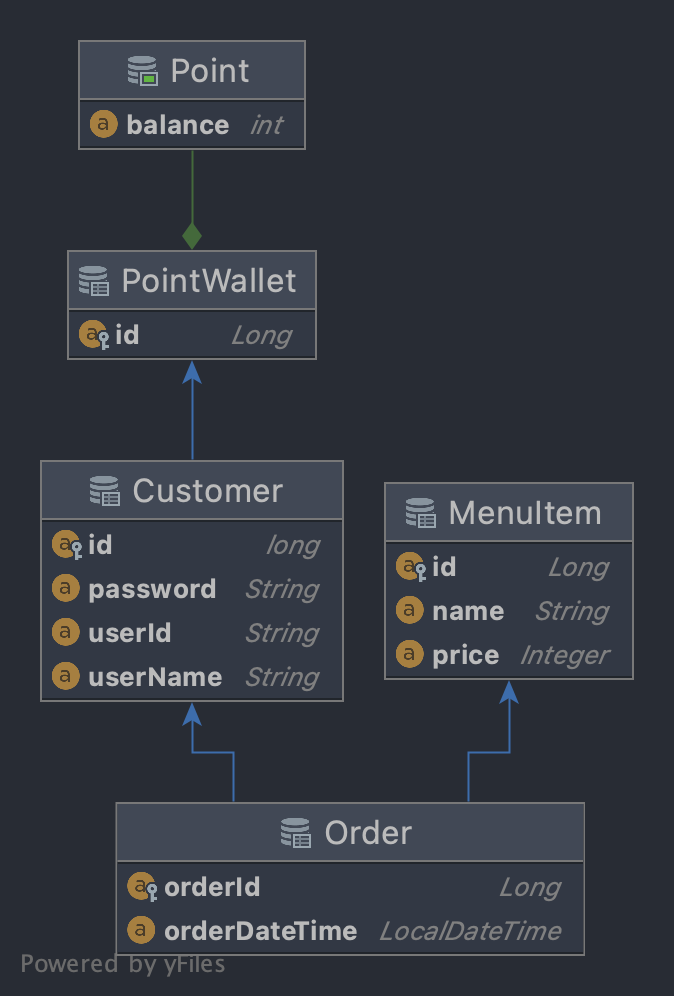
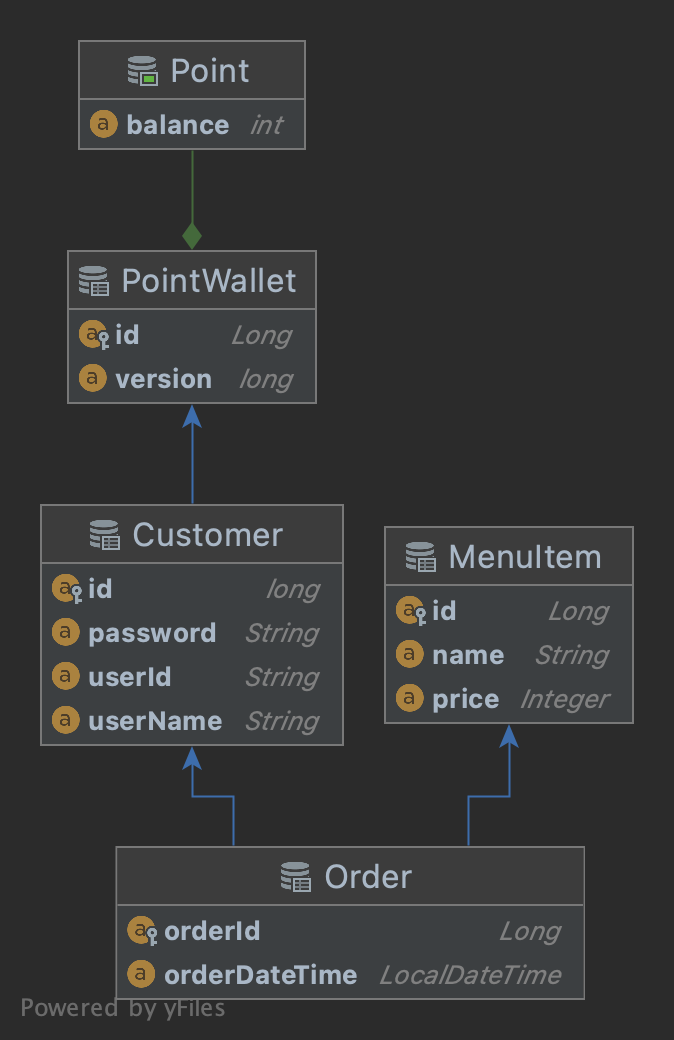
update : @Version 추가. 낙관적 Lock 사용  README.md 업데이트

diff --git a/src/main/java/com/kakao/cafe/point/service/PointService.java b/src/main/java/com/kakao/cafe/point/service/PointService.java
@@ -4,7 +4,6 @@ import com.kakao.cafe.customer.domain.Customer;
 import com.kakao.cafe.customer.service.CustomerService;
 import lombok.RequiredArgsConstructor;
 import org.springframework.stereotype.Service;
-import org.springframework.transaction.annotation.Isolation;
 import org.springframework.transaction.annotation.Transactional;
 
 
@@ -15,7 +14,7 @@ public class PointService {
 
     private final CustomerService customerService;
 
-    @Transactional(isolation = Isolation.REPEATABLE_READ)
+    @Transactional
     public void deduct(String userId, Integer points) throws Exception {
         Customer customer = findCustomerByUserId(userId);
         customer.deductPoints(points);
@@ -27,7 +26,7 @@ public class PointService {
         return customer.getMyPointBalance();
     }
 
-    @Transactional(isolation = Isolation.REPEATABLE_READ)
+    @Transactional
     public void charge(String userId, Integer points) throws Exception {
         Customer customer = findCustomerByUserId(userId);
         customer.chargePoints(points);

diff --git a/src/main/java/com/kakao/cafe/order/service/OrderService.java b/src/main/java/com/kakao/cafe/order/service/OrderService.java
@@ -29,7 +29,7 @@ public class OrderService {
 
     private final ApplicationEventPublisher applicationEventPublisher;
 
-    @Transactional(isolation = Isolation.REPEATABLE_READ)
+    @Transactional
     public Order makeOrderProcess(String userId, Long menuId) throws Exception {
         Customer customer = customerService.findByUserId(userId);
         MenuItem orderedMenu = menuService.findByMenuId(menuId);
@@ -41,7 +41,6 @@ public class OrderService {
         // 포인트 차감 처리
         pointService.deduct(userId, order.cost());
         Order completedOrder = orderRepository.save(order);
-
         log.debug("Make Order Process COMPLETE : {}", completedOrder);
 
         // 수집 플랫폼 서버 전송 비동기 이벤트 처리

diff --git a/src/test/java/com/kakao/cafe/controller/PointControllerTest.java b/src/test/java/com/kakao/cafe/controller/PointControllerTest.java
@@ -59,7 +59,7 @@ public class PointControllerTest {
 
     @Test
     @Order(3)
-    @DisplayName("회원포인트조회API 테스트 오류")
+    @DisplayName("회원포인트조회API 테스트 오류 미존재아이디")
     public void 회원포인트조회_API_테스트_미존재아이디() throws Exception {
         mvc.perform(
                 get("/point")
@@ -72,7 +72,7 @@ public class PointControllerTest {
 
     @Test
     @Order(4)
-    @DisplayName("회원포인트충전 API 테스트 오류")
+    @DisplayName("회원포인트충전 API 테스트 오류 미존재아이디")
     public void 회원포인트충전_API_테스트_미존재아이디() throws Exception {
 
         JSONObject jsonObject = new JSONObject();

diff --git a/src/main/java/com/kakao/cafe/menu/repository/MenuCustomQueryRepository.java b/src/main/java/com/kakao/cafe/menu/repository/MenuCustomQueryRepository.java
@@ -7,6 +7,7 @@ import com.querydsl.core.types.dsl.NumberPath;
 import com.querydsl.jpa.impl.JPAQueryFactory;
 import lombok.RequiredArgsConstructor;
 import org.springframework.stereotype.Repository;
+import org.springframework.transaction.annotation.Isolation;
 import org.springframework.transaction.annotation.Transactional;
 
 import java.time.LocalDate;
@@ -27,7 +28,7 @@ public class MenuCustomQueryRepository {
      * 7일간 인기 상품 추출 Query
      * @return List<PopularMenuItemDto>
      */
-    @Transactional
+    @Transactional(isolation = Isolation.READ_COMMITTED)
     public List<PopularMenuItemDto> getPopularMenus() {
 
         NumberPath<Long> count = Expressions.numberPath(Long.class, "saleCount");

diff --git a/src/test/java/com/kakao/cafe/controller/OrderControllerTest.java b/src/test/java/com/kakao/cafe/controller/OrderControllerTest.java
@@ -34,7 +34,7 @@ public class OrderControllerTest {
 
     @Test
     @Order(1)
-    @DisplayName("주문 성공 후, 수집서버 호출 검증")
+    @DisplayName("주문 API 테스트 성공 후, 수집서버 호출 검증")
     public void 주문_API_테스트_수집서버_전송_테스트() throws Exception {
 
         JSONObject jsonObject = new JSONObject();
@@ -104,7 +104,7 @@ public class OrderControllerTest {
     }
 
     @Test
-    @DisplayName("주문 API 테스트 검증")
+    @DisplayName("주문 API 테스트 필드 검증")
     public void 주문_API_테스트_필드_검증() throws Exception {
 
         JSONObject jsonObject = new JSONObject();

diff --git a/src/main/java/com/kakao/cafe/point/domain/PointWallet.java b/src/main/java/com/kakao/cafe/point/domain/PointWallet.java
@@ -1,8 +1,6 @@
 package com.kakao.cafe.point.domain;
 
-import lombok.AccessLevel;
 import lombok.Getter;
-import lombok.NoArgsConstructor;
 import lombok.ToString;
 import lombok.extern.slf4j.Slf4j;
 
@@ -22,6 +20,10 @@ public class PointWallet {
 
     @Embedded
     private Point point;
+
+    @Version
+    @Column(name = "version", nullable = false)
+    private long version = 0L;
 
     public PointWallet() {
         this.point = new Point();

diff --git a/README.md b/README.md
@@ -72,7 +72,7 @@ $ java -jar build/libs/kakaopay-cafe-hw-0.0.1-SNAPSHOT.jar
     - id (PK), userId(unique), userName, password, point_wallet_id(FK)
 - PointWallet (포인트지갑)
     - 구매고객과 1:1 Mapping
-    - id (PK), balance(잔액)
+    - id (PK), balance(잔액), version
 - MenuItem (메뉴 상품)
     - Cafe에서 판매중인 상품
     - id (PK), name, price
@@ -82,7 +82,7 @@ $ java -jar build/libs/kakaopay-cafe-hw-0.0.1-SNAPSHOT.jar
 
 ## 구현 내용과 해결 전략
 
-- 동시성 이슈와 데이터 일관성의 처리를 위해 고객 포인트의 충전과 차감 거래시, Transaction 격리 수준을 고려하여 구현하였다.
+- 동시성 이슈와 데이터 일관성의 처리를 위해 고객 포인트의 충전과 차감 거래시, JPA의 @Version을 이용하여 낙관적인 Lock 방식으로 해결하였다.
 - 주문 내역에 대한 외부 수집서버 실시간 전송에 대해서 이벤트 기반 비동기 처리로 구현하였다.
 
 ### 1. 커피 메뉴 목록 조회 API
@@ -179,13 +179,35 @@ POST /point/charge HTTP/1.1
 }
 ```
 
-- 동시성 이슈와 데이터의 일관성을 처리 하기 위해, 충전시에는 Transaction의 isolation을 `REPEATABLE_READ` 로 설정하였다.
+- 동시성 이슈와 데이터의 일관성을 처리 하기 위해, 충전시에는 JPA의 @Version을 사용하여 낙관적 Lock 방식으로 구현하였다.
 
 ```java
-@Transactional(isolation = Isolation.REPEATABLE_READ)
+@Transactional
 public void charge(String userId, Integer points) throws Exception {
     Customer customer = findCustomerByUserId(userId);
     customer.chargePoints(points);
+}
+```
+- 동시성 처리를 위한 JPA @Version 사용하였다. (낙관적 Lock)
+```java
+@ToString
+@Slf4j
+@Entity
+@Getter
+@Table(name = "point_wallet")
+public class PointWallet {
+
+    @Id
+    @Column(name = "wallet_id")
+    @GeneratedValue(strategy = GenerationType.IDENTITY)
+    private Long id;
+
+    @Embedded
+    private Point point;
+
+    @Version
+    @Column(name = "version", columnDefinition = "integer DEFAULT 0", nullable = false)
+    private long version = 0L;
 }
 ```
 
@@ -250,7 +272,7 @@ POST /order/make HTTP/1.1
 }
 ```
 
-- 동시성 이슈와 데이터의 일관성을 처리 하기 위해, 포인트 차감시에는 Transaction의 isolation을 `REPEATABLE_READ` 로 설정하였다.
+- 동시성 이슈와 데이터의 일관성을 처리 하기 위해, 포인트 차감시에는 JPA의 @Version을 사용하여 낙관적 Lock을 이용하여 구현하였다.
 - 정상 주문 건에 대한 수집 서버 전송을 위해 `Event 기반`으로 `비동기` 처리하였다.
     - 수집서버 전송이 주문 및 결제 거래 Transaction에 영향이 없도록 구현하였다.
     - 수집서버 전송 에러시, 구매 이력을 파일로 남겨 후행 처리가 가능 하도록 구현하였다.
@@ -272,7 +294,7 @@ public class OrderService {
 
   private final ApplicationEventPublisher applicationEventPublisher;
 
-  @Transactional(isolation = Isolation.REPEATABLE_READ)
+  @Transactional
   public Order makeOrderProcess(String userId, Long menuId) throws Exception {
     Customer customer = customerService.findByUserId(userId);
     MenuItem orderedMenu = menuService.findByMenuId(menuId);
@@ -362,35 +384,35 @@ GET /menu/popular-coffee HTTP/1.1
 - 주문 집계을 통한 인기 상품 추출은 QueryDSL로 해결하였다.
     - 개별 커피의 판매 내역 정확한 카운트가 필요 했고, 그중 Top 3의 MenuItem을 리턴하도록 구현하였다.
     - Projections.fields 로 QueryDSL 결과를 DTO로 바로 Mapping 처리하였다.
-
+- Transaction의 isolation 을 `READ_COMMITTED`로 설정하여 메뉴별 주문 횟수가 정확하게 리턴 되도록 구현하였다.
 ```java
 @RequiredArgsConstructor
 @Repository
 public class MenuCustomQueryRepository {
 
-    private final JPAQueryFactory jpaQueryFactory;
+  private final JPAQueryFactory jpaQueryFactory;
 
-    /**
-     * 7일간 인기 상품 추출 Query
-     * @return List<PopularMenuItemDto>
-     */
-    @Transactional
-    public List<PopularMenuItemDto> getPopularMenus() {
+  /**
+   * 7일간 인기 상품 추출 Query
+   * @return List<PopularMenuItemDto>
+   */
+  @Transactional(isolation = Isolation.READ_COMMITTED)
+  public List<PopularMenuItemDto> getPopularMenus() {
 
-        NumberPath<Long> count = Expressions.numberPath(Long.class, "saleCount");
-        return jpaQueryFactory
-                .select(Projections.fields(PopularMenuItemDto.class,
-                        menuItem.id.as("menuItemId"),
-                        menuItem.name.as("menuName"),
-                        menuItem.count().as(count)))
-                .from(order)
-                .leftJoin(menuItem).on(order.menuItem.id.eq(menuItem.id))
-                .where(order.orderDateTime.between(LocalDateTime.of(LocalDate.now().minusDays(7), LocalTime.MIN), LocalDateTime.of(LocalDate.now(), LocalTime.MAX)))
-                .groupBy(menuItem.id)
-                .orderBy(menuItem.count().desc())
-                .limit(3L)
-                .fetch();
-    }
+    NumberPath<Long> count = Expressions.numberPath(Long.class, "saleCount");
+    return jpaQueryFactory
+            .select(Projections.fields(PopularMenuItemDto.class,
+                    menuItem.id.as("menuItemId"),
+                    menuItem.name.as("menuName"),
+                    menuItem.count().as(count)))
+            .from(order)
+            .leftJoin(menuItem).on(order.menuItem.id.eq(menuItem.id))
+            .where(order.orderDateTime.between(LocalDateTime.of(LocalDate.now().minusDays(7), LocalTime.MIN), LocalDateTime.of(LocalDate.now(), LocalTime.MAX)))
+            .groupBy(menuItem.id)
+            .orderBy(menuItem.count().desc())
+            .limit(3L)
+            .fetch();
+  }
 }
 ```
 
